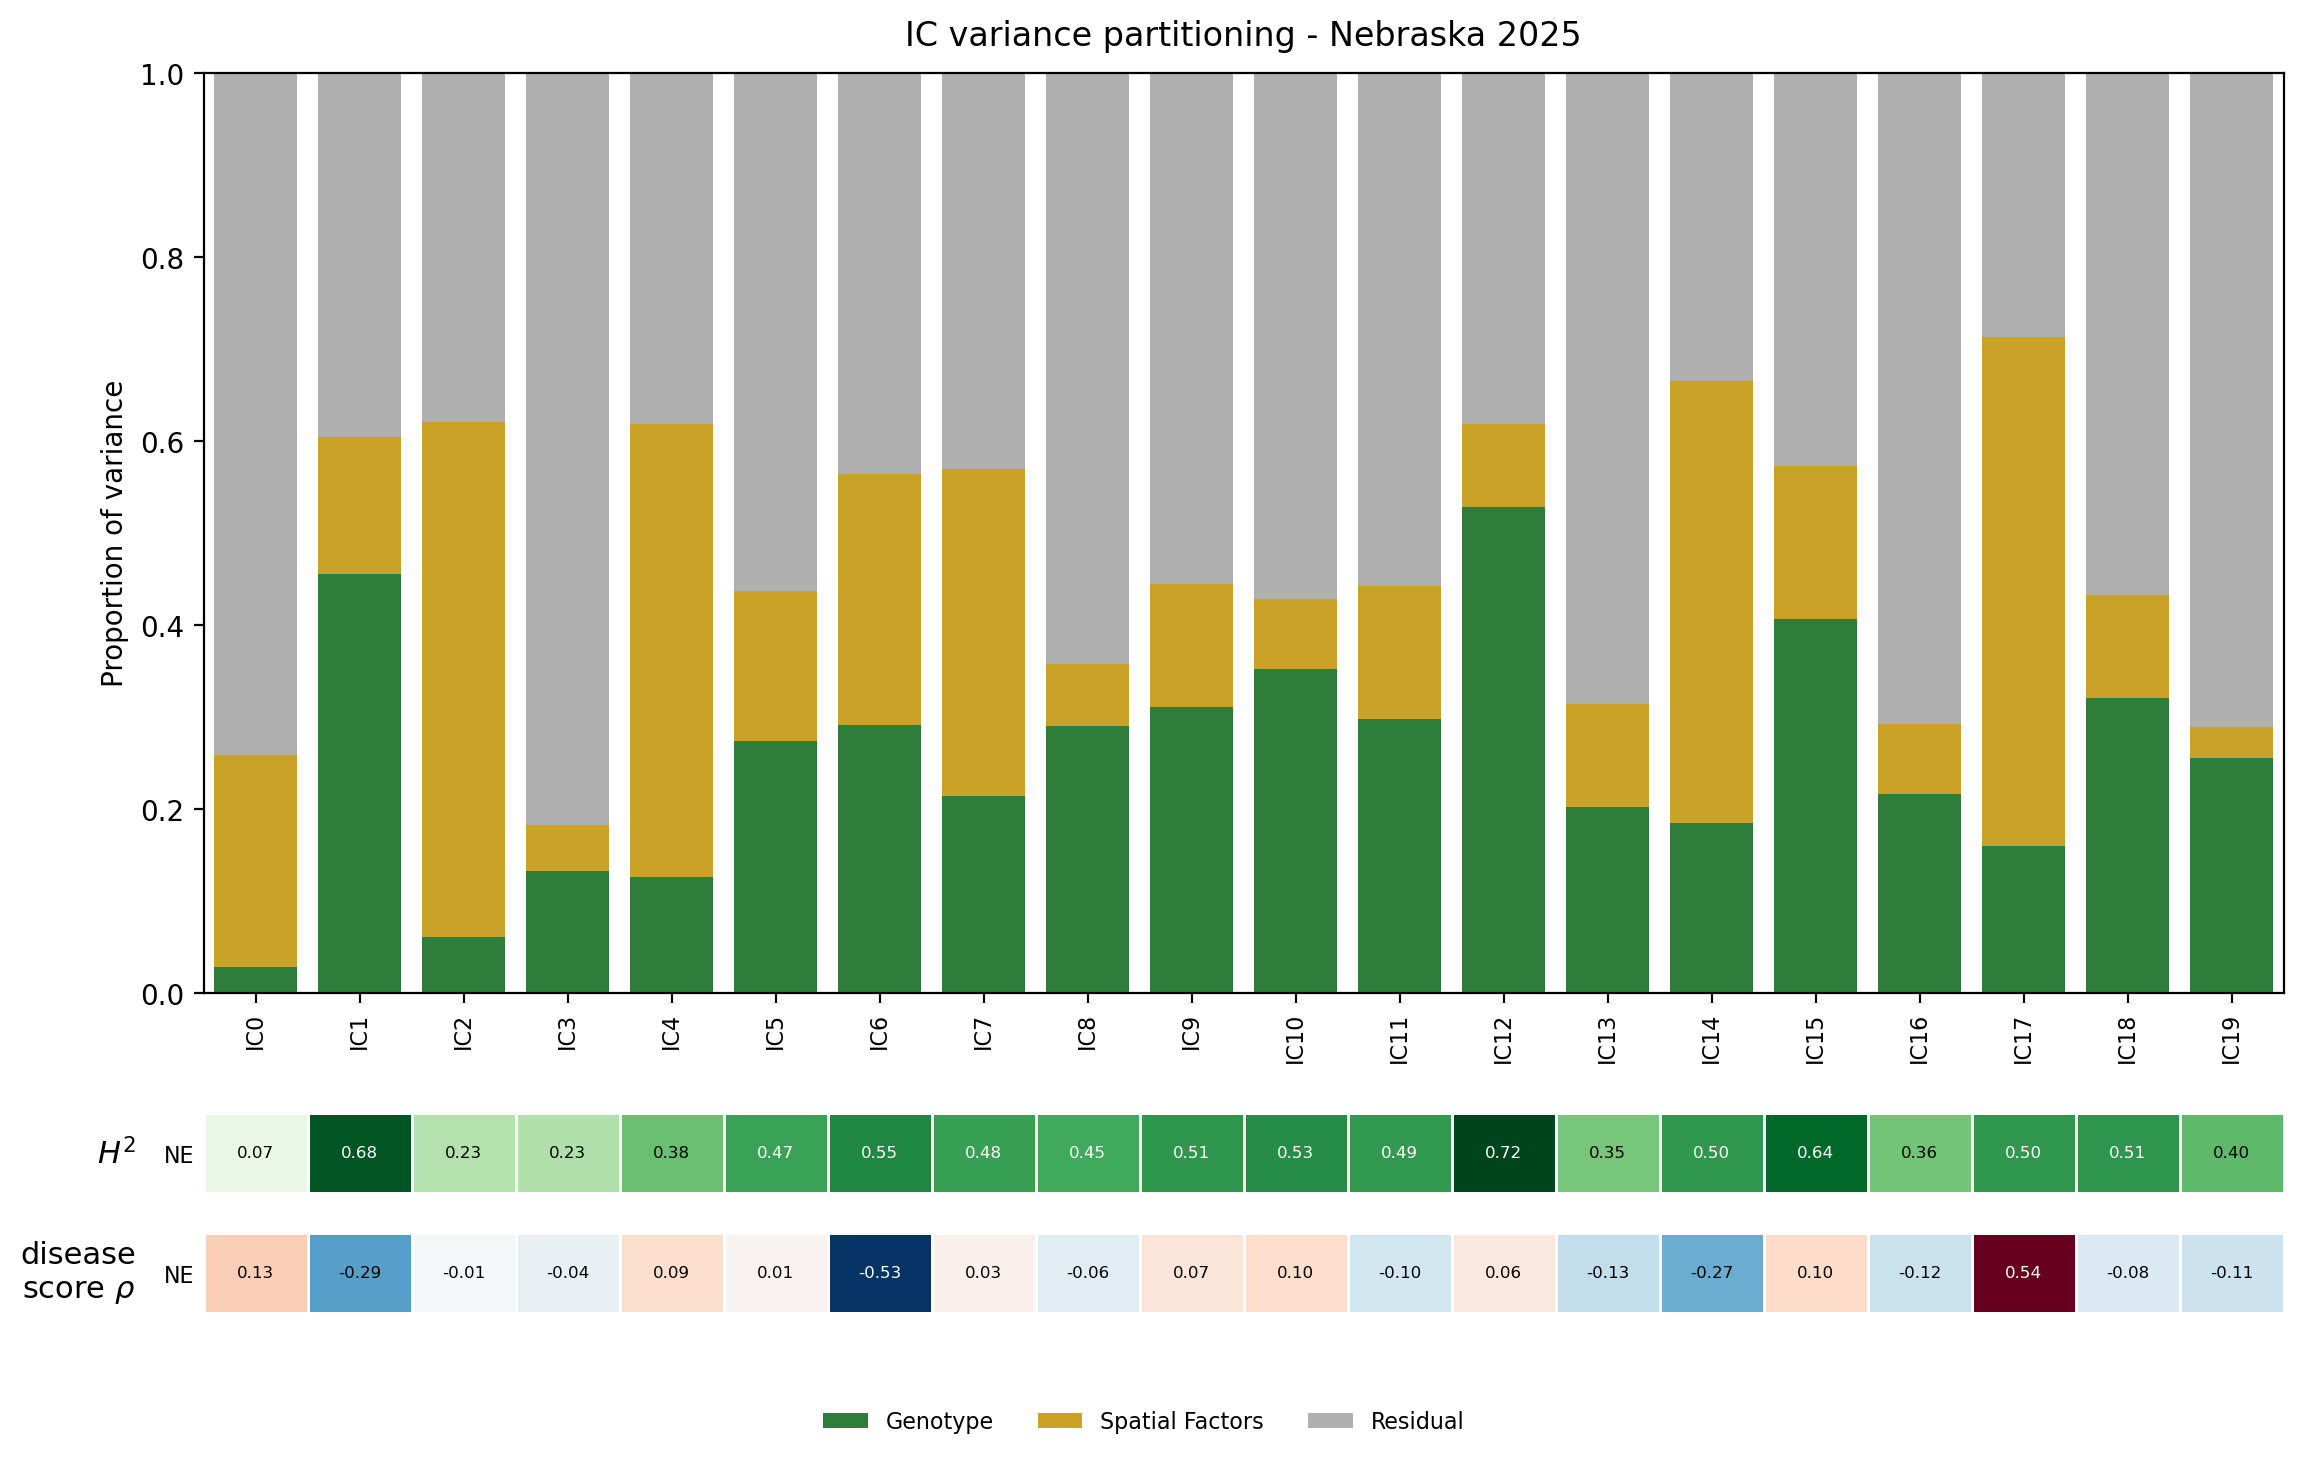
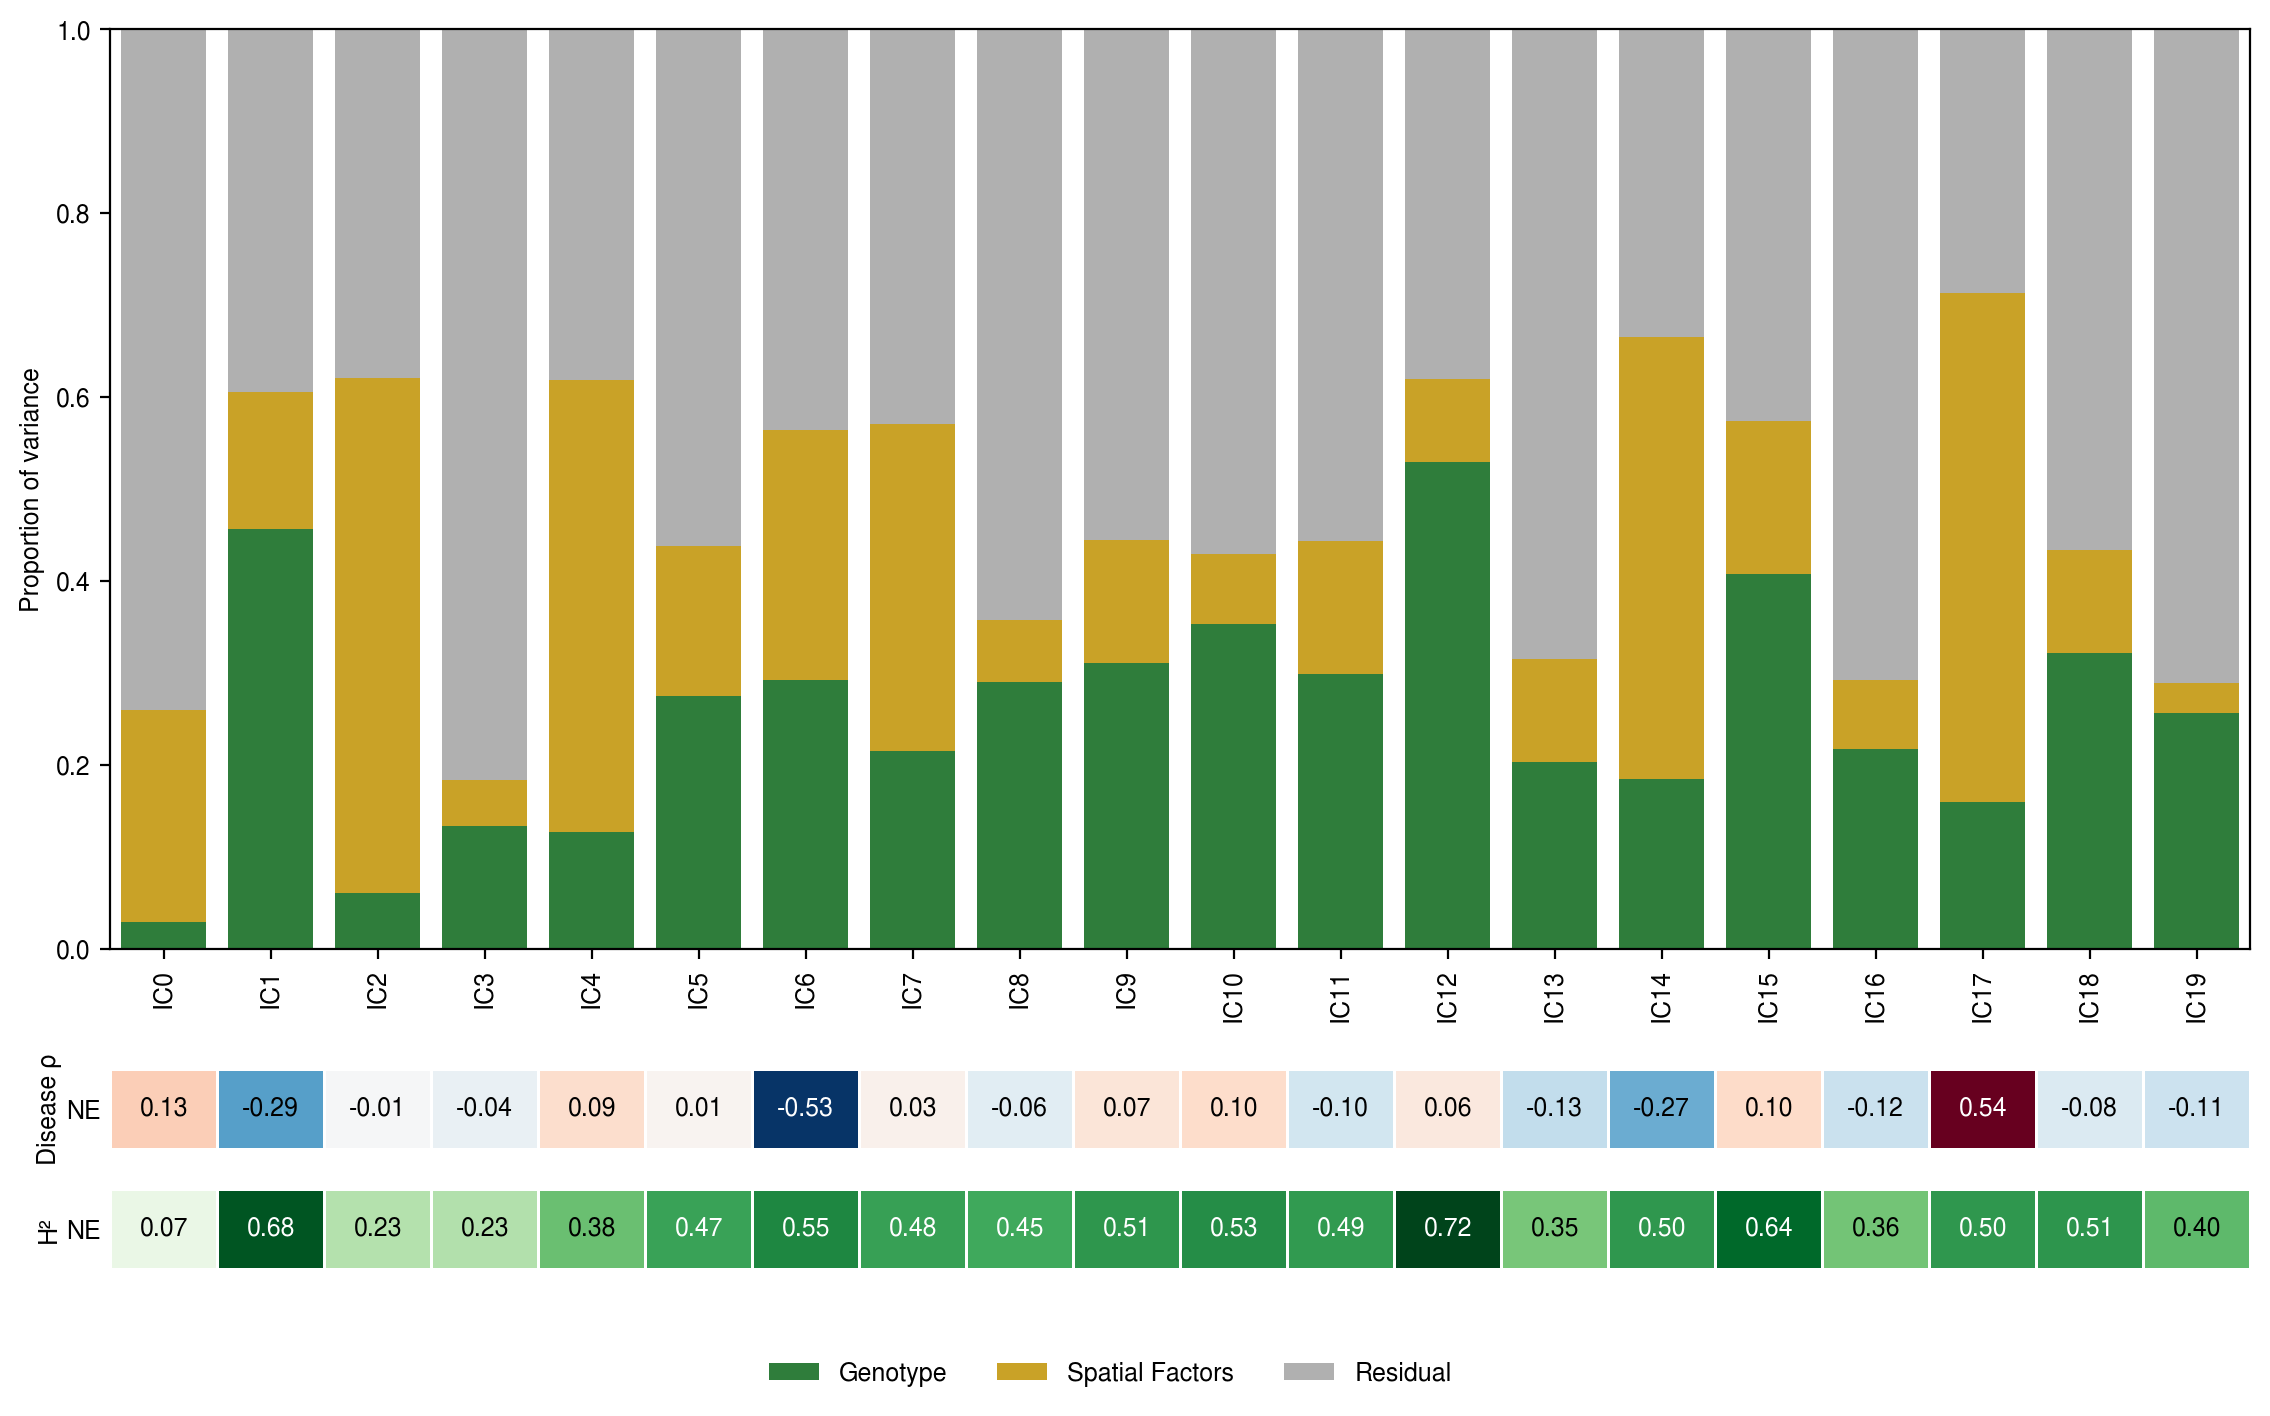
Unify figure font/size, drop title, capitalize Disease label
- One font (Nimbus Sans, the URW Helvetica clone, with sans fallbacks) and one
  size (9) for every text element; H2/rho written as plain Unicode so no math
  font is used and all glyphs share the body font.
- Remove the figure title (and the now-dead --title argument).
- Capitalize the disease heatmap label to "Disease rho".
- Regenerated Nebraska and all-environment figures on BLUEs/partitions recomputed
  against the current image metadata (device now resolved for every environment:
  NE1-8, AL1-2, GA1-3).

diff --git a/figures/variance_partitioning/make_variance_partition_figures.py b/figures/variance_partitioning/make_variance_partition_figures.py
@@ -12,13 +12,11 @@ This lives next to the figure outputs it produces. Run it once per environment:
 
     python figures/variance_partitioning/make_variance_partition_figures.py \
         --partition output/ic_blues_nebraska_mixedlm_from_float32/variance_partitioning_Nebraska2025.csv \
-        --out-prefix figures/variance_partitioning/ic_variance_partition_nebraska2025 \
-        --title "IC variance partitioning - Nebraska 2025"
+        --out-prefix figures/variance_partitioning/ic_variance_partition_nebraska2025
 
     python figures/variance_partitioning/make_variance_partition_figures.py \
         --partition output/ic_blues_all_mixedlm_from_float32/variance_partitioning_all.csv \
-        --out-prefix figures/variance_partitioning/ic_variance_partition_all_environments \
-        --title "IC variance partitioning - all environments"
+        --out-prefix figures/variance_partitioning/ic_variance_partition_all_environments
 """
 
 from __future__ import annotations
@@ -32,6 +30,23 @@ matplotlib.use("Agg")
 import matplotlib.pyplot as plt
 import numpy as np
 import pandas as pd
+
+
+# One font and one size for every text element in the figure. Nimbus Sans is the
+# URW Helvetica clone (falls back to other sans faces if unavailable). H2/rho are
+# written as plain Unicode so no separate math font is ever used.
+FONT_SIZE = 9
+matplotlib.rcParams.update({
+    "font.family": "sans-serif",
+    "font.sans-serif": ["Nimbus Sans", "Helvetica", "Nimbus Sans L", "Arial", "Liberation Sans", "DejaVu Sans"],
+    "font.size": FONT_SIZE,
+    "axes.titlesize": FONT_SIZE,
+    "axes.labelsize": FONT_SIZE,
+    "xtick.labelsize": FONT_SIZE,
+    "ytick.labelsize": FONT_SIZE,
+    "legend.fontsize": FONT_SIZE,
+    "axes.unicode_minus": False,
+})
 
 
 # Raw variance-component source -> grouped figure category.
@@ -155,16 +170,16 @@ def draw_heat_block(ax_h, block: dict, n: int) -> None:
             if np.isfinite(val):
                 intensity = abs(val - center) / span
                 ax_h.text(ci, ri + 0.5, block["fmt"].format(val), ha="center", va="center",
-                          fontsize=6, color="white" if intensity > 0.6 else "black")
+                          color="white" if intensity > 0.6 else "black")
     ax_h.set_xlim(-0.5, n - 0.5)
     ax_h.set_xticks([])
     ax_h.set_yticks(np.arange(nrows) + 0.5)
-    ax_h.set_yticklabels(block["labels"], fontsize=8)
+    ax_h.set_yticklabels(block["labels"])
     ax_h.invert_yaxis()
     ax_h.tick_params(length=0)
     for spine in ax_h.spines.values():
         spine.set_visible(False)
-    ax_h.set_ylabel(block["ylabel"], fontsize=11, rotation=0, ha="right", va="center", labelpad=10)
+    ax_h.set_ylabel(block["ylabel"], rotation=90, va="center", labelpad=6)
 
 
 def _axes_inches(fig, W: float, H: float, left_in: float, top_in: float, w_in: float, h_in: float):
@@ -172,7 +187,7 @@ def _axes_inches(fig, W: float, H: float, left_in: float, top_in: float, w_in: f
     return fig.add_axes([left_in / W, (H - top_in - h_in) / H, w_in / W, h_in / H])
 
 
-def plot_stacked(grouped: pd.DataFrame, out_prefix: Path, title: str, blocks: list[dict] | None = None) -> None:
+def plot_stacked(grouped: pd.DataFrame, out_prefix: Path, blocks: list[dict] | None = None) -> None:
     blocks = blocks or []
     traits = sorted(grouped["trait"].unique(), key=trait_sort_key)
     groups_present = [g for g in GROUP_ORDER if g in set(grouped["source"])]
@@ -186,7 +201,7 @@ def plot_stacked(grouped: pd.DataFrame, out_prefix: Path, title: str, blocks: li
 
     # Absolute (inch) layout so the gaps between bars, heatmap blocks, and legend stay constant.
     W = max(8, 0.6 * n)
-    left, right_pad, top_pad, bottom_pad = 1.3, 0.3, 0.5, 0.15
+    left, right_pad, top_pad, bottom_pad = 1.0, 0.3, 0.2, 0.15
     bars_h, label_gap, block_gap, legend_h = 4.6, 0.6, 0.2, 0.55
     block_hs = [0.34 * b["matrix"].shape[0] + 0.06 for b in blocks]
     plotw = W - left - right_pad
@@ -200,11 +215,10 @@ def plot_stacked(grouped: pd.DataFrame, out_prefix: Path, title: str, blocks: li
         ax.bar(x, vals, bottom=bottom, width=0.8, label=group, color=GROUP_COLOR.get(group, "#777777"))
         bottom += vals
     ax.set_xticks(x)
-    ax.set_xticklabels(traits, rotation=90, fontsize=8)
+    ax.set_xticklabels(traits, rotation=90)
     ax.set_ylabel("Proportion of variance")
     ax.set_ylim(0, 1)
     ax.set_xlim(-0.5, n - 0.5)
-    ax.set_title(title, pad=10)
 
     top_in = top_pad + bars_h + label_gap
     for block, bh in zip(blocks, block_hs):
@@ -214,7 +228,7 @@ def plot_stacked(grouped: pd.DataFrame, out_prefix: Path, title: str, blocks: li
 
     handles, labels = ax.get_legend_handles_labels()
     fig.legend(handles, labels, loc="lower center", bbox_to_anchor=(0.5, (bottom_pad + 0.05) / H),
-               ncol=len(groups_present), fontsize=8, frameon=False)
+               ncol=len(groups_present), frameon=False)
 
     fig.savefig(out_prefix.with_suffix(".png"), dpi=200, bbox_inches="tight")
     fig.savefig(out_prefix.with_suffix(".pdf"), bbox_inches="tight")
@@ -225,14 +239,14 @@ def corr_block(corr_csv: Path, rows_spec: list[tuple[str, str]], traits: list[st
     labels, matrix = load_corr_matrix(corr_csv, rows_spec, traits)
     vmax = max(0.3, float(np.nanmax(np.abs(matrix)))) if np.isfinite(matrix).any() else 1.0
     return {"name": "disease_rho", "labels": labels, "matrix": matrix, "cmap": "RdBu_r",
-            "vmin": -vmax, "vmax": vmax, "center": 0.0, "ylabel": "disease\nscore " + r"$\rho$", "fmt": "{:.2f}"}
+            "vmin": -vmax, "vmax": vmax, "center": 0.0, "ylabel": "Disease ρ", "fmt": "{:.2f}"}
 
 
 def h2_block(rows_spec: list[tuple[str, str]], traits: list[str]) -> dict:
     labels, matrix = load_h2_matrix(rows_spec, traits)
     vmax = max(0.3, float(np.nanmax(matrix))) if np.isfinite(matrix).any() else 1.0
     return {"name": "H2", "labels": labels, "matrix": matrix, "cmap": "Greens",
-            "vmin": 0.0, "vmax": vmax, "center": 0.0, "ylabel": r"$H^2$", "fmt": "{:.2f}"}
+            "vmin": 0.0, "vmax": vmax, "center": 0.0, "ylabel": "H²", "fmt": "{:.2f}"}
 
 
 def parse_pairs(spec: str) -> list[tuple[str, str]]:
@@ -243,7 +257,6 @@ def parse_args() -> argparse.Namespace:
     parser = argparse.ArgumentParser(description=__doc__, formatter_class=argparse.RawDescriptionHelpFormatter)
     parser.add_argument("--partition", required=True, type=Path, help="variance_partitioning_<env>.csv from calculate_blues.py")
     parser.add_argument("--out-prefix", required=True, type=Path, help="Output path prefix; writes .csv, .png, .pdf")
-    parser.add_argument("--title", default="IC variance partitioning")
     parser.add_argument(
         "--h2-rows",
         help="Comma-separated LABEL=heritability_csv pairs for the broad-sense H2 heatmap, e.g. "
@@ -267,12 +280,12 @@ def main() -> None:
     traits = sorted(grouped["trait"].unique(), key=trait_sort_key)
 
     blocks = []
-    if args.h2_rows:
-        blocks.append(h2_block(parse_pairs(args.h2_rows), traits))
     if args.corr_csv and args.corr_rows:
         blocks.append(corr_block(args.corr_csv, parse_pairs(args.corr_rows), traits))
+    if args.h2_rows:
+        blocks.append(h2_block(parse_pairs(args.h2_rows), traits))
 
-    plot_stacked(grouped, args.out_prefix, args.title, blocks)
+    plot_stacked(grouped, args.out_prefix, blocks)
     summary = "; ".join(f"{b['name']} rows {b['labels']}" for b in blocks)
     print(f"Wrote {args.out_prefix}.csv/.png/.pdf ({grouped['trait'].nunique()} traits){'; ' + summary if summary else ''}")
 